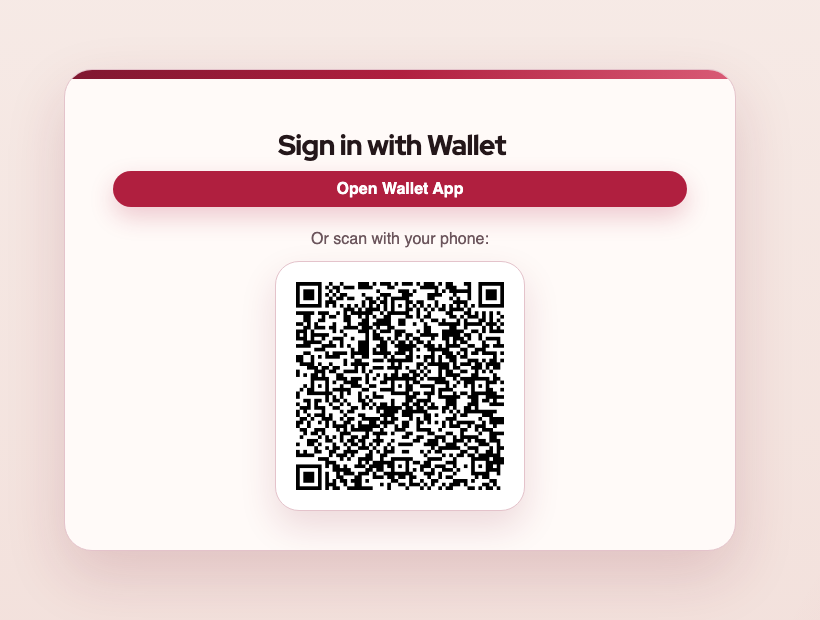
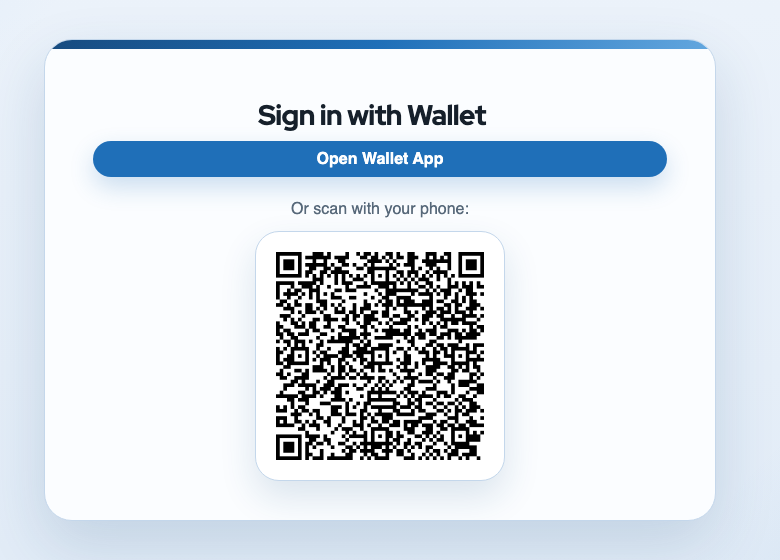
fix: update theme

diff --git a/themes/wallet-connector/login/resources/css/wallet-connector.css b/themes/wallet-connector/login/resources/css/wallet-connector.css
@@ -15,22 +15,22 @@
  */
 
 :root {
-  --wc-shell: #f7ece8;
-  --wc-card: #fffaf8;
-  --wc-accent: #b01f3f;
-  --wc-accent-strong: #7f1730;
-  --wc-accent-soft: #d95b76;
-  --wc-border: #e4c3cb;
-  --wc-text: #24171a;
-  --wc-muted: #6c565d;
-  --wc-shadow: 0 24px 60px rgba(127, 23, 48, 0.16);
+  --wc-shell: #eef4fb;
+  --wc-card: #fbfdff;
+  --wc-accent: #1f6fb8;
+  --wc-accent-strong: #174b7f;
+  --wc-accent-soft: #63a7df;
+  --wc-border: #c4d7eb;
+  --wc-text: #16202b;
+  --wc-muted: #58697a;
+  --wc-shadow: 0 24px 60px rgba(23, 75, 127, 0.16);
 }
 
 html.login-pf body {
   background:
-    radial-gradient(circle at top left, #f2c7cd 0, transparent 22rem),
-    radial-gradient(circle at bottom right, rgba(176, 31, 63, 0.14) 0, transparent 24rem),
-    linear-gradient(180deg, var(--wc-shell) 0%, #f2dfda 100%);
+    radial-gradient(circle at top left, #d9e9fa 0, transparent 22rem),
+    radial-gradient(circle at bottom right, rgba(31, 111, 184, 0.14) 0, transparent 24rem),
+    linear-gradient(180deg, var(--wc-shell) 0%, #dfeaf6 100%);
   color: var(--wc-text);
   min-height: 100vh;
 }
@@ -131,7 +131,7 @@ html.login-pf body {
   border-radius: 999px;
   color: #fff;
   font-weight: 600;
-  box-shadow: 0 10px 24px rgba(176, 31, 63, 0.22);
+  box-shadow: 0 10px 24px rgba(31, 111, 184, 0.22);
 }
 
 .pf-v5-c-button.pf-m-primary:hover,
@@ -178,7 +178,7 @@ a.pf-v5-c-button.pf-m-primary:active {
 #oid4vp-qr-code {
   border: 1px solid var(--wc-border) !important;
   border-radius: 24px;
-  box-shadow: 0 16px 36px rgba(127, 23, 48, 0.14);
+  box-shadow: 0 16px 36px rgba(23, 75, 127, 0.14);
 }
 
 @media (max-width: 768px) {
